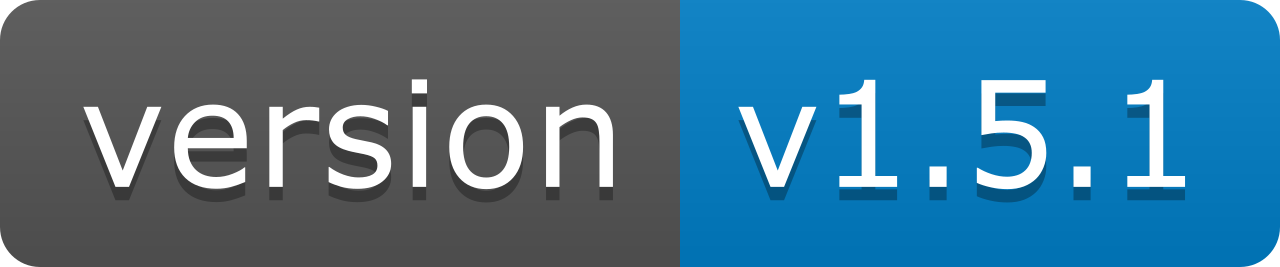
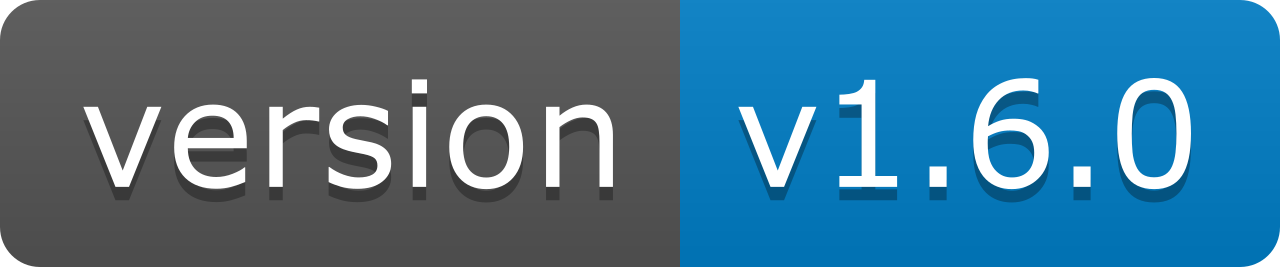
docs(language-features): CSS langauge features updated in readme

Changed region(s): [[0.875, 0.2697, 0.9375, 0.779], [0.75, 0.2697, 0.8438, 0.7491]]

diff --git a/src/providers/css/colors.ts b/src/providers/css/colors.ts
@@ -9,11 +9,15 @@ import {
   Range,
   TextDocument,
 } from "vscode";
+import Settings from "../../settings";
 import { ProviderKind } from "../types";
 import { CSSProviderFactory } from "./CSSProviderFactory";
 
 export class CssDocumentColorProvider implements _DocumentColorProvider {
   provideDocumentColors(document: TextDocument): ColorInformation[] {
+    if (!Settings.cssSyntaxColor) {
+      return [];
+    }
     const provider = new CSSProviderFactory({
       providerKind: ProviderKind.Colors,
       document,
@@ -26,6 +30,9 @@ export class CssDocumentColorProvider implements _DocumentColorProvider {
     context: { readonly document: TextDocument; readonly range: Range },
     token: CancellationToken
   ): ColorPresentation[] {
+    if (!Settings.cssSyntaxColor) {
+      return [];
+    }
     const provider = new CSSProviderFactory({
       providerKind: ProviderKind.Colors,
       document: context.document,

diff --git a/src/settings/index.ts b/src/settings/index.ts
@@ -70,6 +70,21 @@ export class Settings {
   public set cssAutoComplete(v: boolean | undefined) {
     workspace.getConfiguration(EXT_NAME).update("cssAutoComplete", v);
   }
+
+  public get cssDefinitions(): boolean | undefined {
+    return getSettings().get("cssDefinitions");
+  }
+
+  public set cssDefinitions(v: boolean | undefined) {
+    workspace.getConfiguration(EXT_NAME).update("cssDefinitions", v);
+  }
+  public get cssSyntaxColor(): boolean | undefined {
+    return getSettings().get("cssSyntaxColor");
+  }
+
+  public set cssSyntaxColor(v: boolean | undefined) {
+    workspace.getConfiguration(EXT_NAME).update("cssSyntaxColor", v);
+  }
 }
 
 export default new Settings();

diff --git a/src/providers/css/definition.ts b/src/providers/css/definition.ts
@@ -7,6 +7,7 @@ import {
   ProviderResult,
   TextDocument,
 } from "vscode";
+import Settings from "../../settings";
 import { ProviderKind } from "../types";
 import { CSSProviderFactory } from "./CSSProviderFactory";
 
@@ -15,6 +16,9 @@ export class CssDefinitionProvider implements _DefinitionProvider {
     document: TextDocument,
     position: Position
   ): LocationLink[] {
+    if (!Settings.cssDefinitions) {
+      return [];
+    }
     const provider = new CSSProviderFactory({
       document,
       position,

diff --git a/examples/react-app/src/test/styles/TestStyles1.module.css b/examples/react-app/src/test/styles/TestStyles1.module.css
@@ -28,5 +28,5 @@
 
 .sibling-child {
   display: flex;
-  color:var(--)
+  color:var(--color-blue)
 }

diff --git a/README.md b/README.md
@@ -4,8 +4,9 @@
 <img height="24" src="images/version.png" />
 
 VS Code extension that enables CSS modules IntelliSense for your React projects written in TypeScript.
+Currently supports CSS, SCSS, Less modules with the following capabilities
 
-Currently supports CSS, SCSS, Less modules with the following capabilities:
+This extension also supports CSS language features which are not supported by built in vscode [code css langauge fetures](https://github.com/microsoft/vscode-css-languageservice). Check [CSS language features](#css-langauge-features) for more info
 
 > This extension is unique in terms of support for major types of [Casings](#casings) and different types of CSS class selectors
 > 
@@ -15,37 +16,23 @@ Currently supports CSS, SCSS, Less modules with the following capabilities:
 > - Suffixed selectors ([SCSS only](https://sass-lang.com/documentation/style-rules/parent-selector#adding-suffixes))
 > - Deeply nested suffix selectors
 
+## TS/TSX Language Features
 ### [Definitions](https://code.visualstudio.com/api/references/vscode-api#DefinitionProvider)
 
-- Go to any type of selector definition from your React components
-  
-  <img src='./assets/definitions.gif' alt="definitions" />
+- Go to any type of selector definition from your React components - [demo](https://github.com/Viijay-Kr/react-ts-css/tree/main/assets/definitions.gif)
 
 ### [Hover](https://code.visualstudio.com/api/references/vscode-api#HoverProvider)
 
-- Peek CSS properties of a selector on hover
-
-  <img src='./assets/hover.gif' alt="hover" />
+- Peek CSS properties of a selector on hover - [demo](https://github.com/Viijay-Kr/react-ts-css/tree/main/assets/hover.gif)
 
 ### [Completions](https://code.visualstudio.com/api/references/vscode-api#HoverProvider)
 
-- Completion of selectors 
-
-  <img src='./assets/autocomplete.gif' alt="completions" />
-
-- Completion of style identifiers with automatic import of closest (S)CSS module
-
-  <img src='./assets/auto-import.gif' alt="auto-import-on-completions" />
+- Completion of selectors - [demo](https://github.com/Viijay-Kr/react-ts-css/tree/main/assets/autocomplete.gif)
+- Completion of style identifiers with automatic import of closest (S)CSS module - [demo](https://github.com/Viijay-Kr/react-ts-css/tree/main/assets/auto-import.gif)
 
 ### [Diagnostics](https://microsoft.github.io/language-server-protocol/specifications/lsp/3.17/specification/#diagnostic)
-- Useful diagnostics information are provided for missing selector
-
-  <img src="./assets/missing-selector.png" alt="missing-selector-warning" />
-
-- Module not found error is also provided for non existing CSS modules
-
-  <img src="./assets/missing-module.png" alt="missing-module" />
-
+- Useful diagnostics information are provided for missing selector - [demo](https://github.com/Viijay-Kr/react-ts-css/tree/main/assets/missing-selector.png)
+- Module not found error is also provided for non existing CSS modules - [demo](https://github.com/Viijay-Kr/react-ts-css/tree/main/assets/missing-module.png)
 - Settings to change diagnostics
   - `reactTsCSS.diagnostics` - Toggle to turn off diagnostics
   - `reactTsScss.tsconfig` - Base TS Config path in the project.Useful for resolving path aliases. Defaults to './tsconfig.json'
@@ -56,9 +43,18 @@ Currently supports CSS, SCSS, Less modules with the following capabilities:
 - Code Action to quick fix misspelled selectors
 - Code Action to add a non existing selector to the corresponding CSS/SCSS module
 - Code Action to ignore warnings temporarily
-   
-  <img src="./assets/code-actions.gif" alt="code-actions" />
+- [demo](https://github.com/Viijay-Kr/react-ts-css/tree/main/assets/code-actions.gif)
 
+## CSS Langauge Features
+ [Demo](https://github.com/Viijay-Kr/react-ts-css/tree/main/assets/css-variables.gif)
+### Variable Completion
+- Completion of variables across all the css modules 
+### [Variable Definitions](https://code.visualstudio.com/docs/languages/css#_go-to-declaration-and-find-references) 
+- Definition of variables across all the css modules
+### [Syntax Colors and Presentation](https://code.visualstudio.com/docs/languages/css#_syntax-coloring-color-preview)
+- Color Presentations and color information for variables across all the css modules
+
+> VS codes built in support for CSS Langauge is limited to the current active file.So the above features are limited to active file and hence any access to variables from different modules won't work until you install React CSS modules
 ## Casings
 
 This extensions supports selectors written in:
@@ -73,13 +69,16 @@ Defaults
 
 ```json
 {
-  "reactTsCSS.peek": true, // Hover
-  "reactTsCSS.autoComplete": true, // Completion
-  "reactTsCSS.autoImport": true, // Auto import modules
-  "reactTsCSS.definition": true, // Definition
-  "reactTsCSS.tsconfig":"./tsconfig.json", // TS config path in workspace
-  "reactTsCSS.baseDir":"src", // Root directory of your application
-  "reactTsCSS.diagnostics":true, // Diagnostics
+  "reactTsCSS.peek": true, 
+  "reactTsCSS.autoComplete": true, 
+  "reactTsCSS.autoImport": true, 
+  "reactTsCSS.definition": true, 
+  "reactTsCSS.tsconfig":"./tsconfig.json", 
+  "reactTsCSS.baseDir":"src", 
+  "reactTsCSS.diagnostics":true, 
+  "reactTsCSS.cssAutoComplete":true, 
+  "reactTsCSS.cssDefinitions":true, 
+  "reactTsCSS.cssSyntaxColor":true, 
 }
 ```
 

diff --git a/CHANGELOG.md b/CHANGELOG.md
@@ -1,3 +1,9 @@
+## [1.6.0]
+- CSS Language Features 
+  - Completion of CSS Variables
+  - Go to Definitions of CSS variables
+  - Syntax coloring for CSS variables
+- Minor Refactoring of providers into their own language providers
 ## [1.5.5]
 - Minor Refactorings of Providers
 ## [1.5.4]
